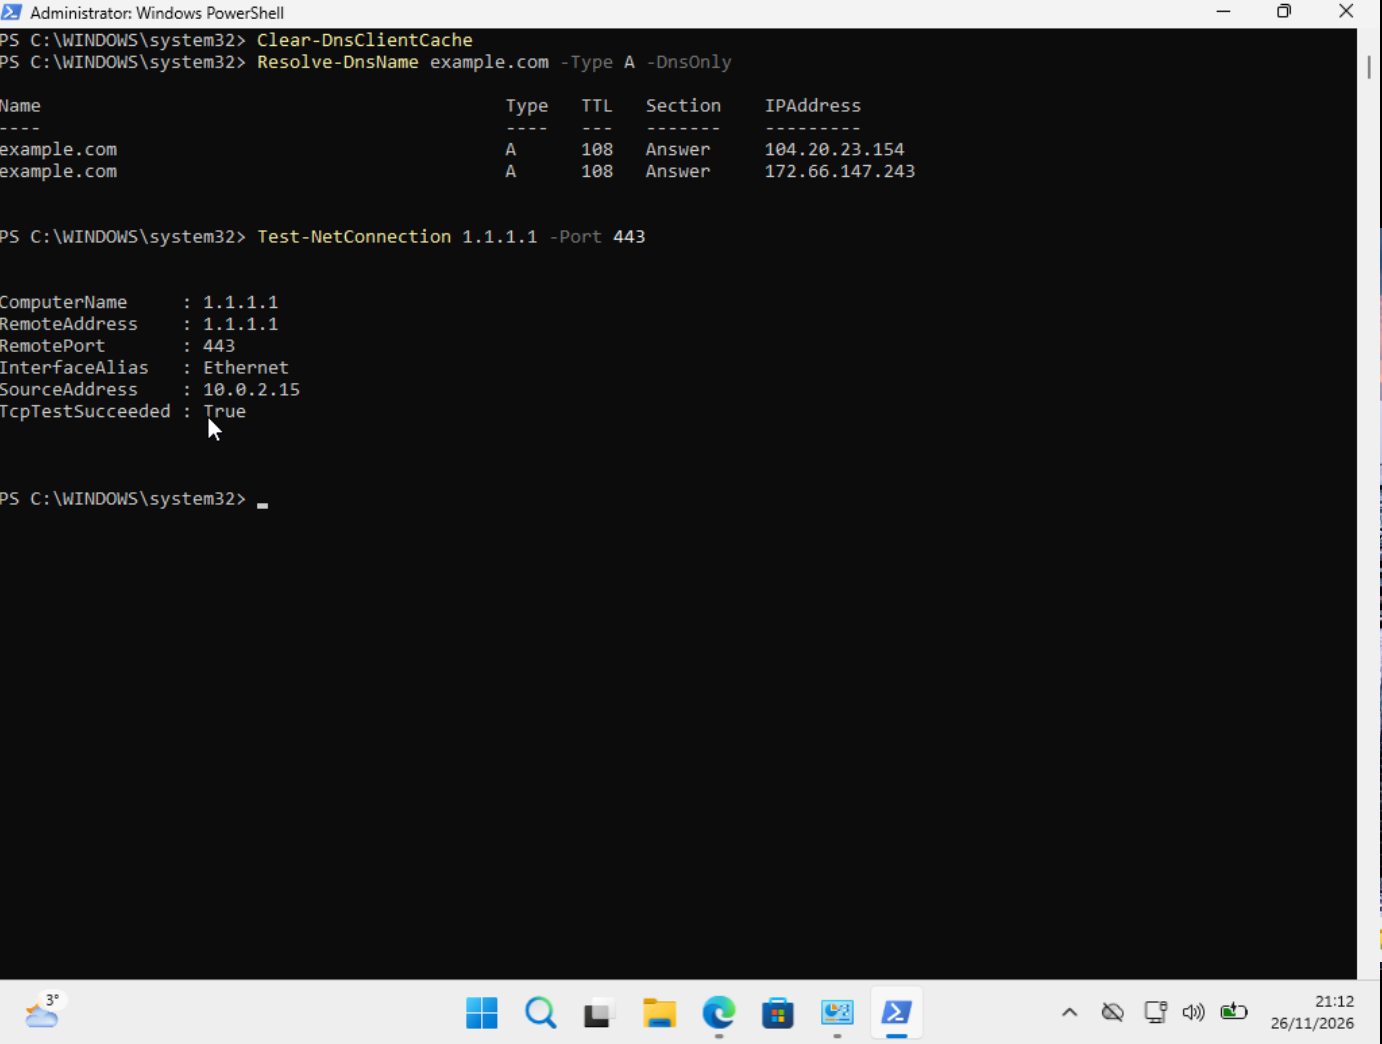
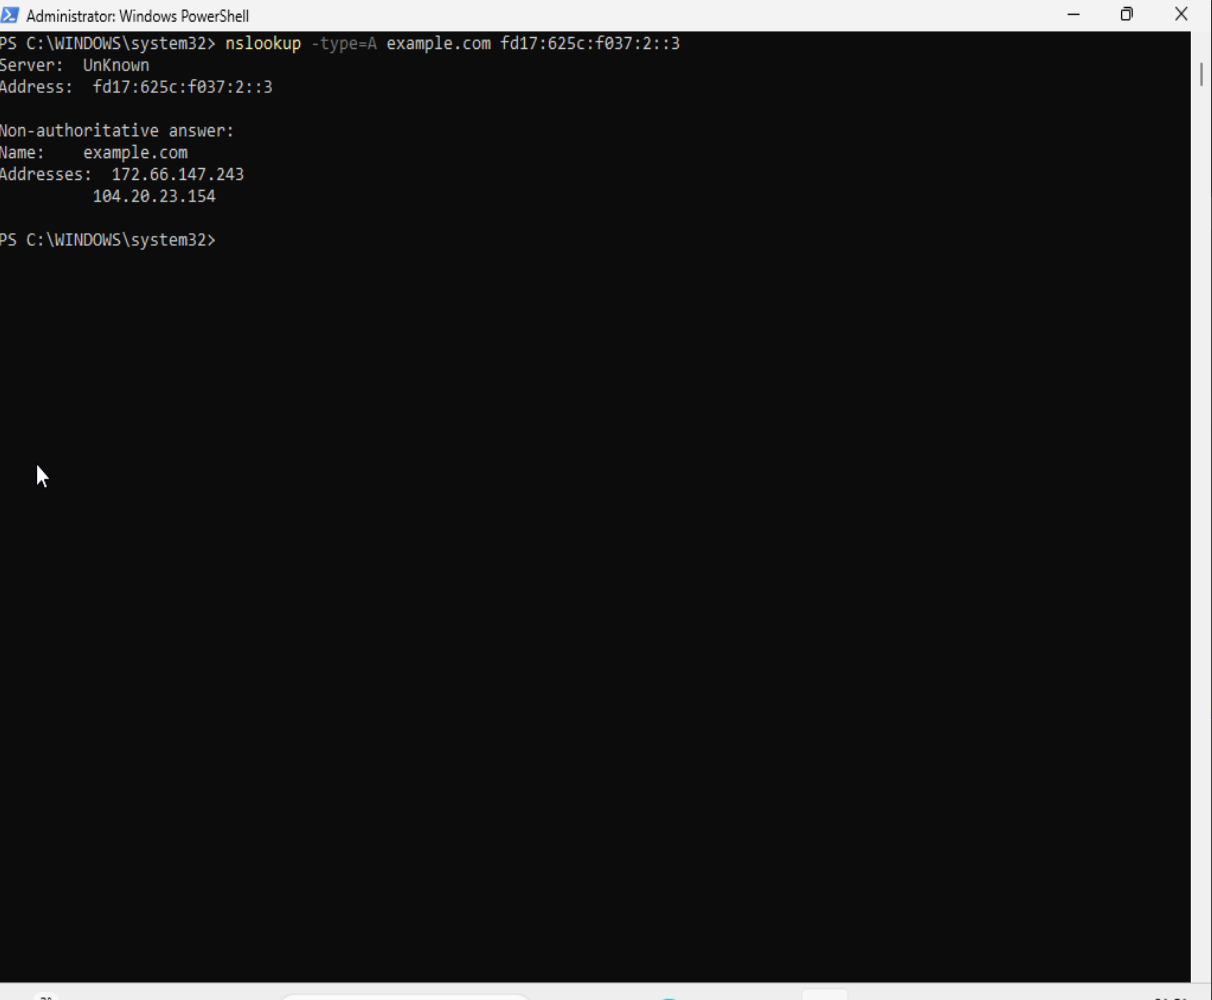
Match Windows DNS lab screenshots to their findings

diff --git a/labs/001-windows-dns/README.md b/labs/001-windows-dns/README.md
@@ -23,11 +23,13 @@ I used two checks throughout the exercise:
 - `Resolve-DnsName example.com -Type A -DnsOnly` asks DNS for the website’s IPv4 address.
 - `Test-NetConnection 1.1.1.1 -Port 443` tests a TCP connection to a numeric address, so this check can succeed even when name resolution fails.
 
+[View the original DNS settings, successful lookup and TCP baseline](evidence/00-baseline.png)
+
 ## Investigation
 
 | Step | What I checked | What I observed and why it mattered |
 |---|---|---|
-| 1. Change IPv4 DNS | I set the preferred IPv4 DNS server to `127.0.0.1`, cleared the DNS cache and repeated both checks. | `example.com` still resolved and TCP port 443 was reachable. The intended fault had not yet been reproduced, so I checked which other DNS servers were configured. |
+| 1. Change IPv4 DNS | I set the preferred IPv4 DNS server to `127.0.0.1`, cleared the DNS cache and repeated both checks. | `example.com` still resolved and TCP port 443 was reachable. The intended fault had not yet been reproduced, so I checked which other DNS servers were configured. [View the lookup after changing IPv4 DNS](evidence/01-ipv4-change-lookup.png) |
 | 2. Inspect the adapter | I ran `Get-DnsClientServerAddress -InterfaceAlias "Ethernet"` and queried `127.0.0.1` directly with `nslookup`. | Ethernet listed both an IPv4 and an IPv6 DNS server. The direct IPv4 query returned “No response from server.” [View IPv4 evidence](evidence/01-ipv4-loopback.png) |
 | 3. Test the IPv6 resolver | I sent the same A-record query directly to `fd17:625c:f037:2::3`. | It returned `172.66.147.243` and `104.20.23.154`. This confirmed the VM still had a resolver capable of answering the query. [View IPv6 evidence](evidence/02-ipv6-resolver.png) |
 | 4. Reproduce the full fault | I also set the preferred IPv6 DNS server to `::1`, cleared the cache and repeated the lookup and TCP test. | The DNS lookup failed with error `10054`. The TCP connection to `1.1.1.1:443` still succeeded. This narrowed the fault to name resolution. |

diff --git a/README.md b/README.md
@@ -6,7 +6,7 @@ Hamdi’s hands-on portfolio of IT support and systems administration exercises.
 
 | Lab | Skills | Status | Evidence |
 | --- | --- | --- | --- |
-| [001 · Investigate a Windows DNS fault](labs/001-windows-dns/README.md) | Windows, PowerShell, DNS, ticket notes | Planned | Pending lab run |
+| [001 · Investigate a Windows DNS fault](labs/001-windows-dns/README.md) | Windows, PowerShell, DNS, ticket notes | Completed | [DNS fault and successful TCP check](labs/001-windows-dns/evidence/03-dns-fault.png) |
 
 ## Next exercises
 
